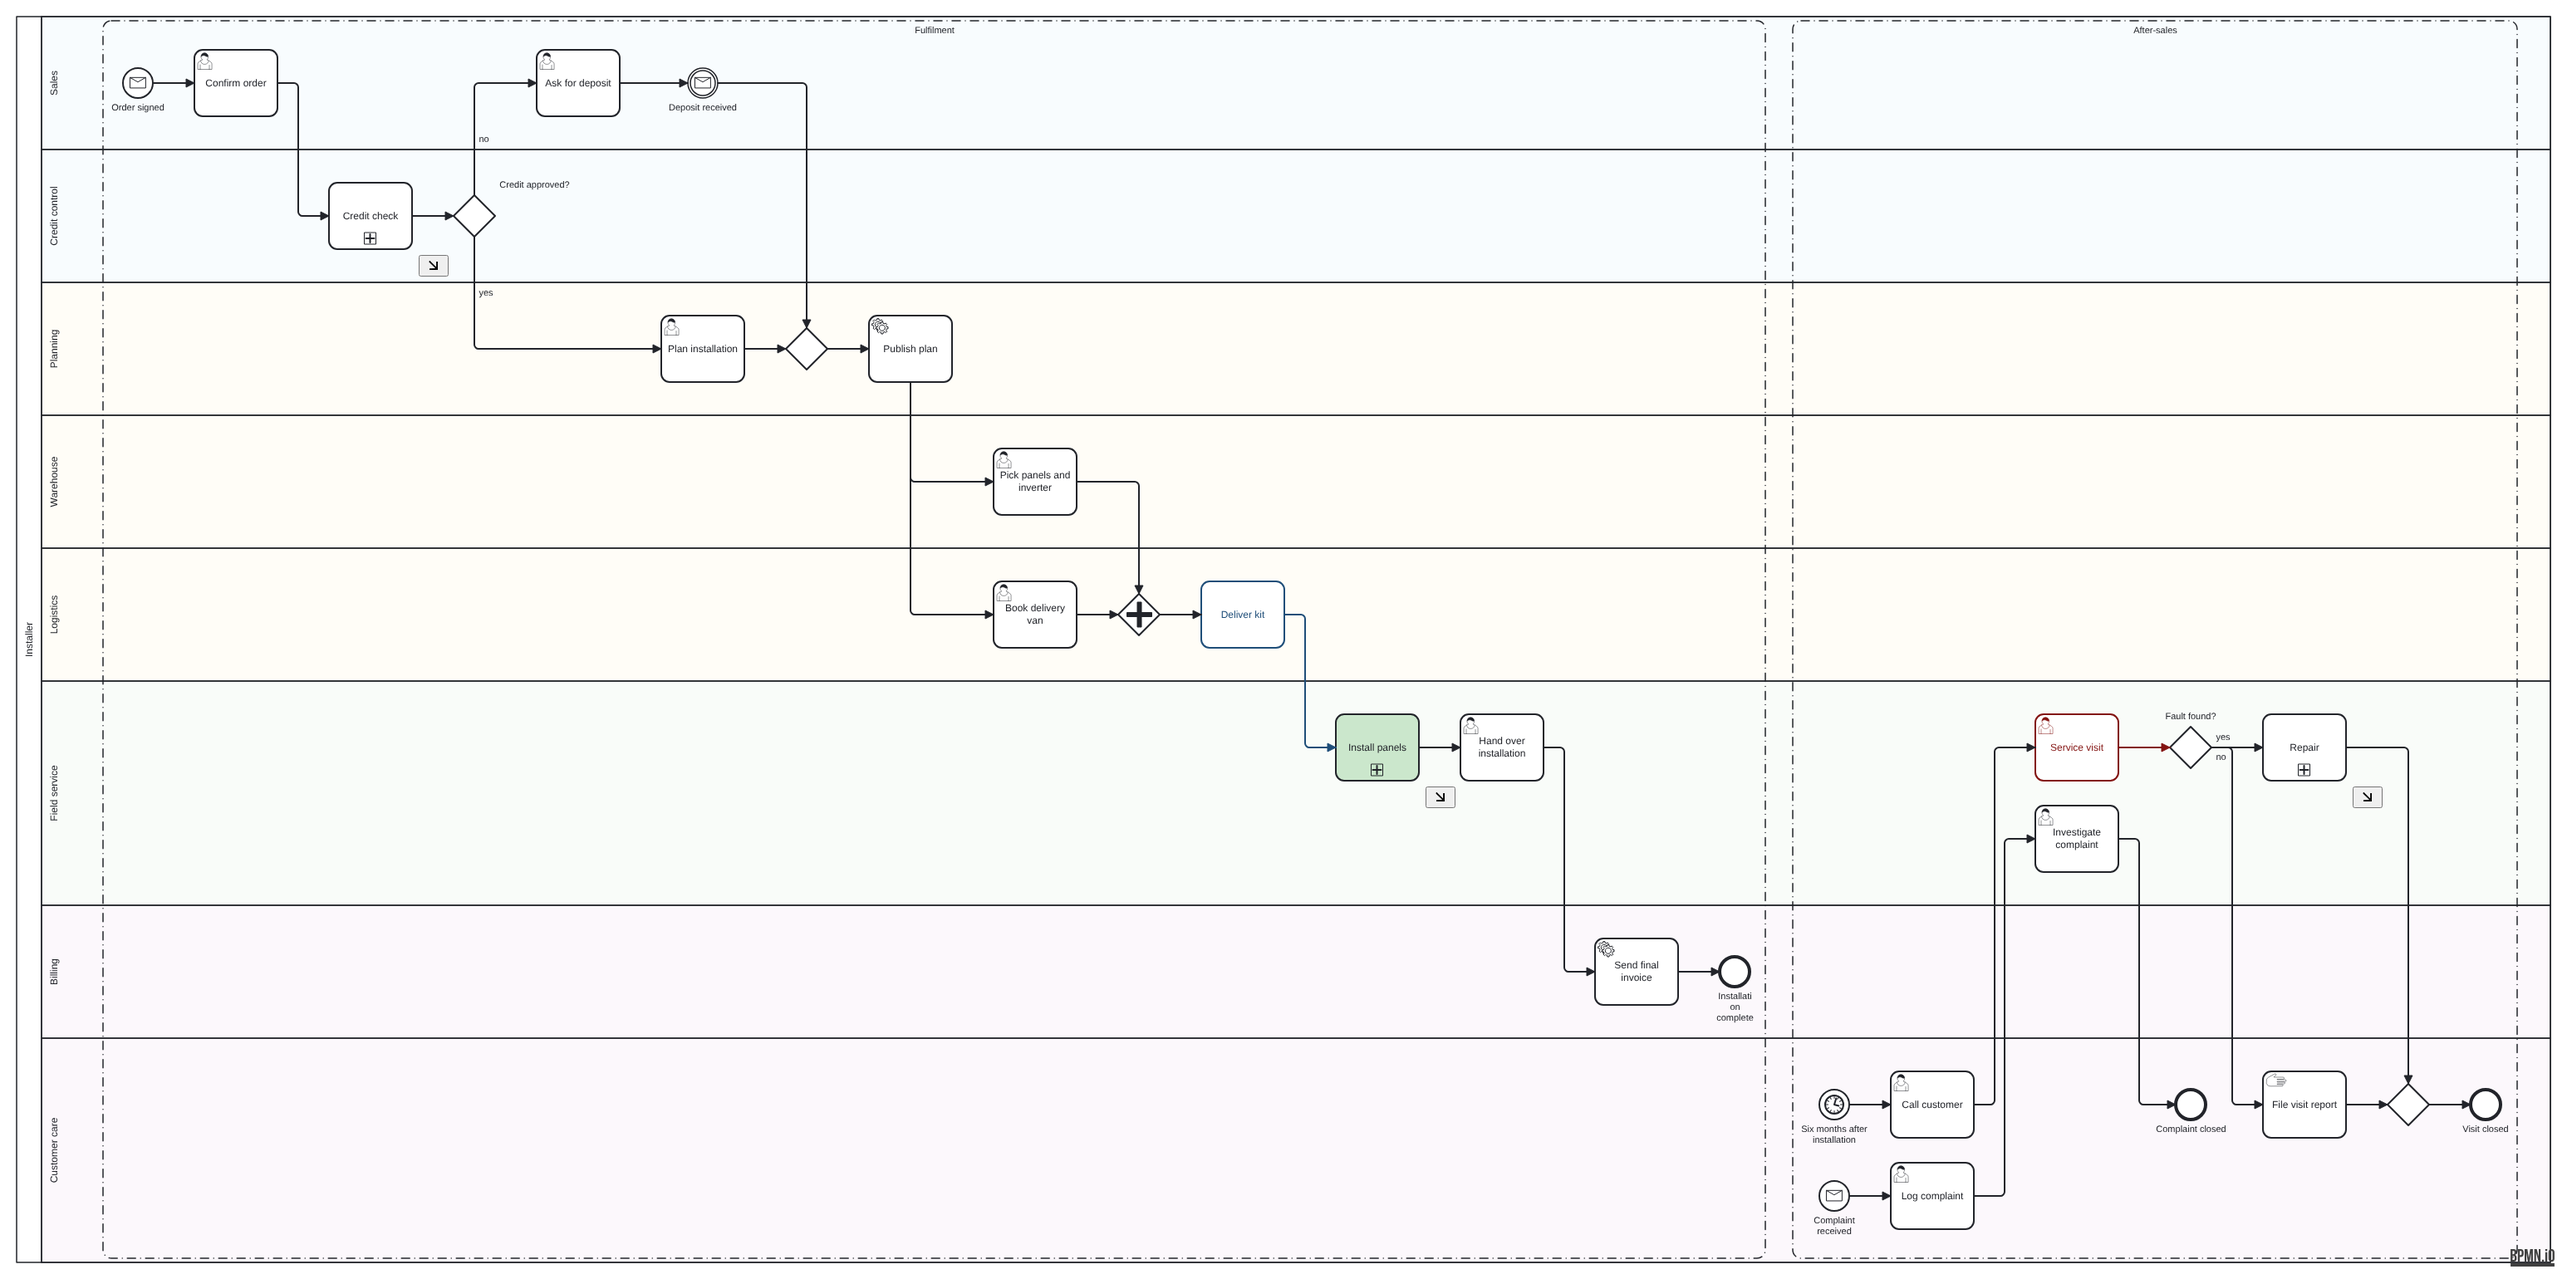
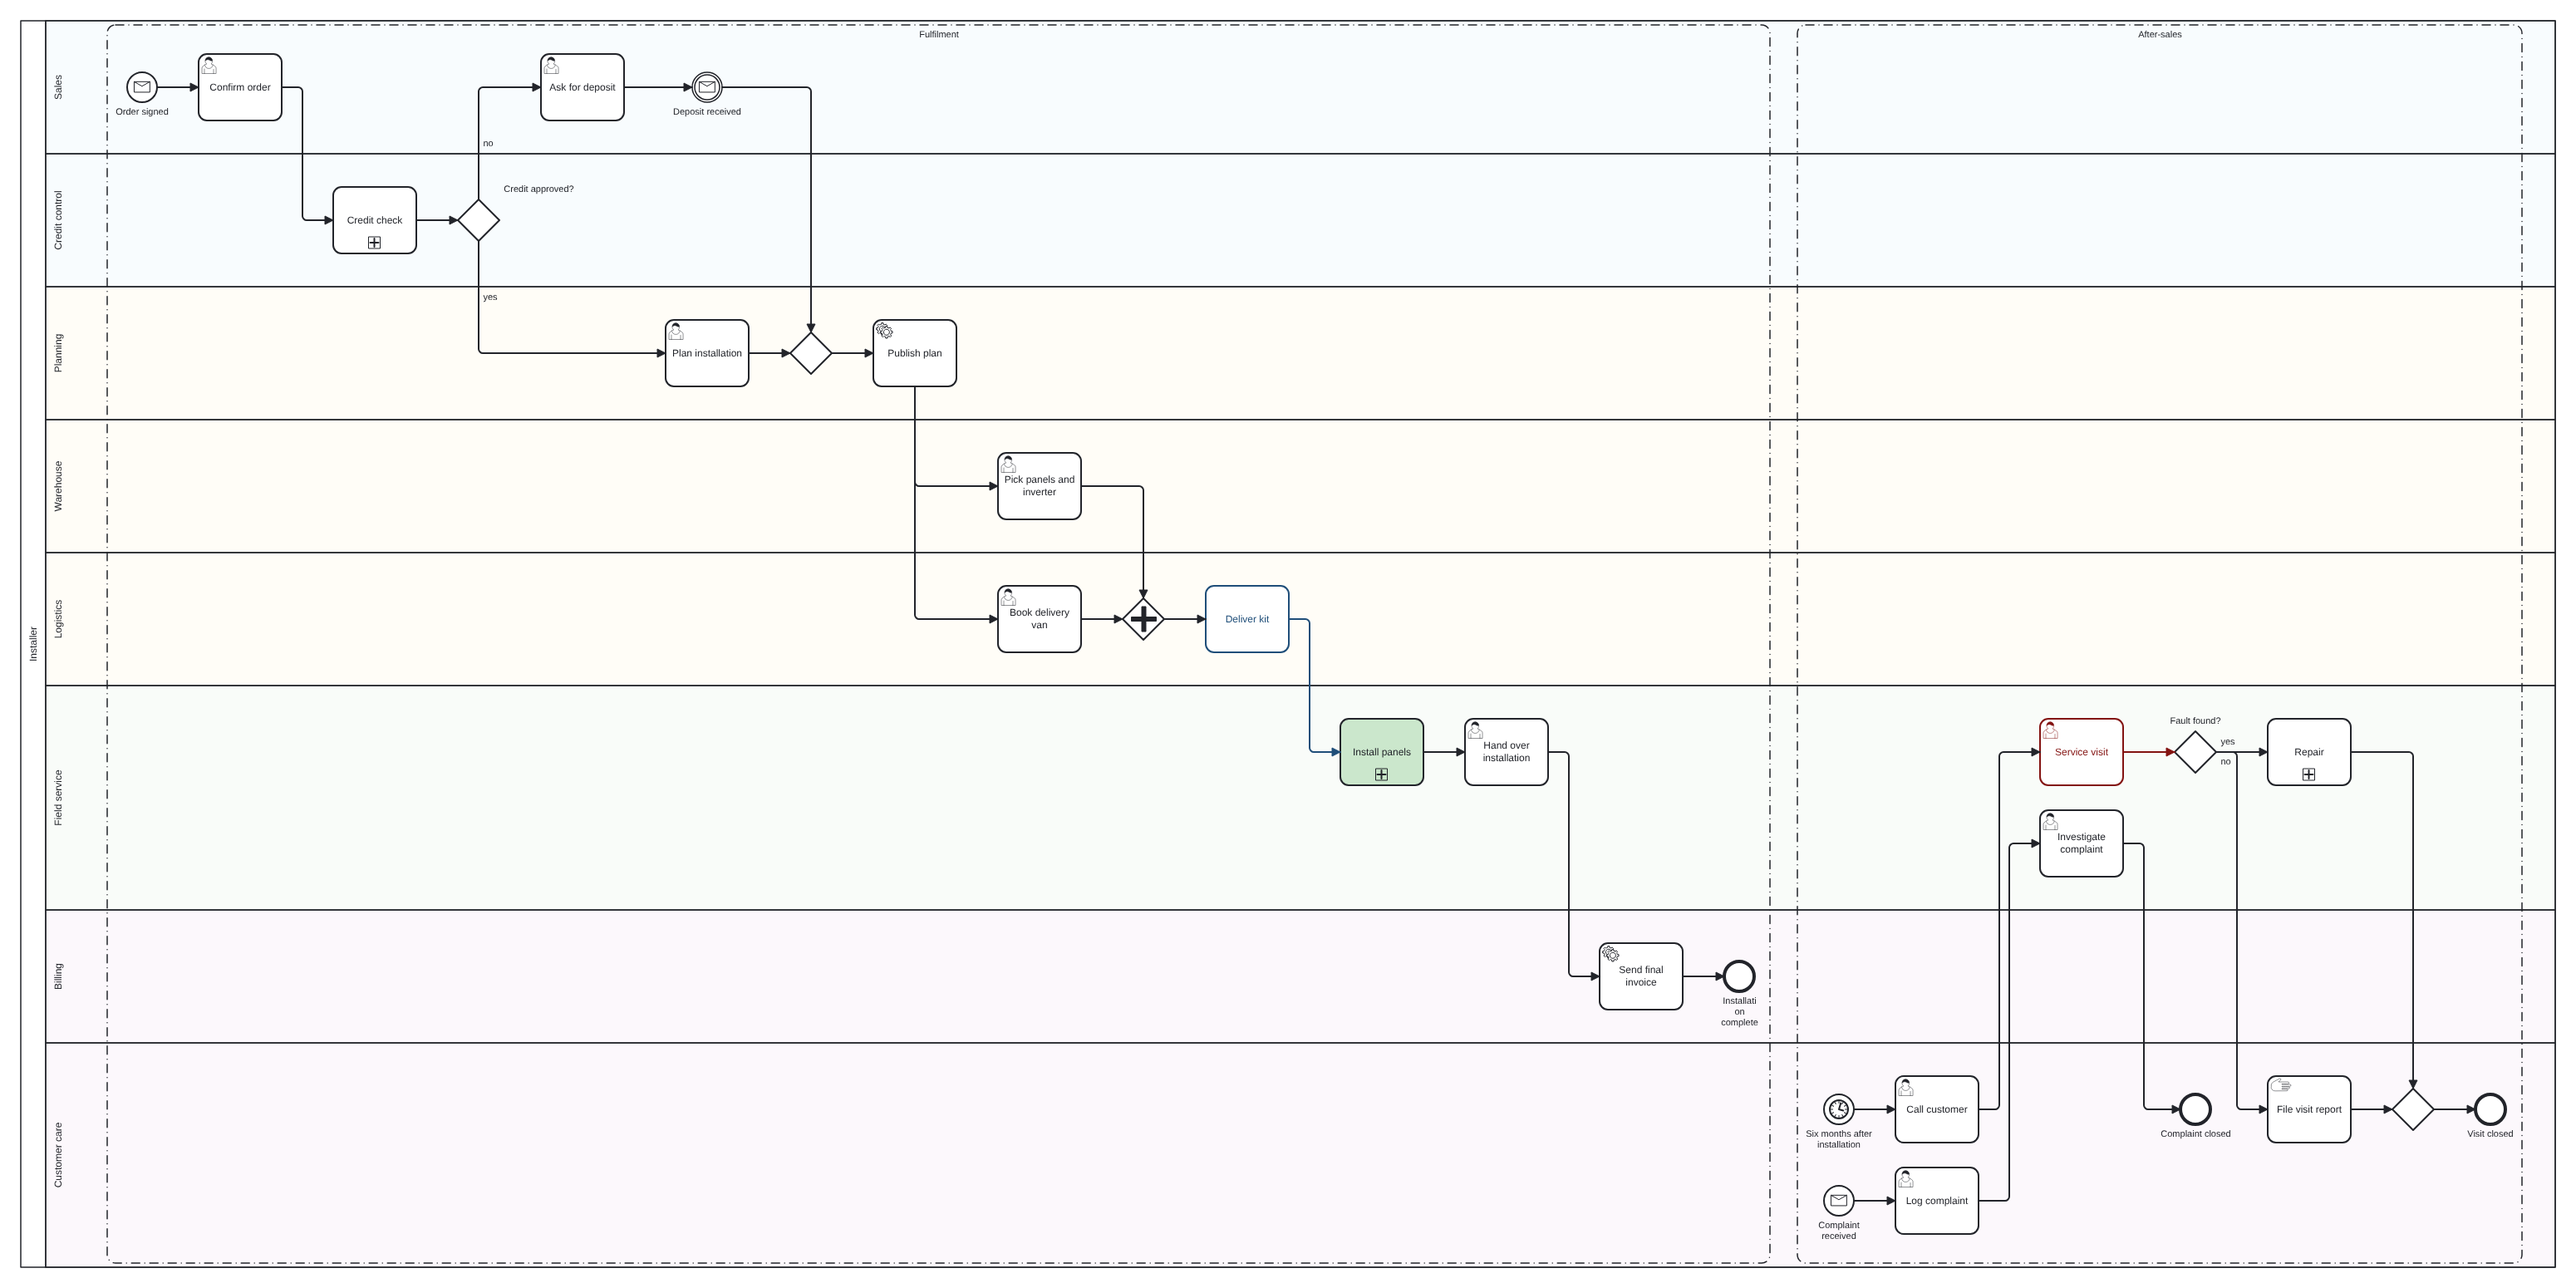
Render PNG from the exported SVG, without the viewer watermark
PNGs were screenshots of the live bpmn-js viewer, so they included the
bpmn.io watermark that the viewer shows. They are now drawn from
saveSVG(), the same export as SVG output and the web editor's
downloads, with a 20px margin. The watermark stays in the live editor,
as the bpmn-js licence requires. Regenerated docs/images.

Claude-Session: https://claude.ai/code/session_01WHtcxbajsu4HHDafSguAQi

diff --git a/packages/render/src/index.ts b/packages/render/src/index.ts
@@ -40,12 +40,6 @@ interface Page {
   viewer: {
     importXML(xml: string): Promise<{ warnings: Error[] }>;
     saveSVG(): Promise<{ svg: string }>;
-    get(name: 'canvas'): {
-      viewbox(box?: object): {
-        inner: { x: number; y: number; width: number; height: number };
-      };
-      resized(): void;
-    };
   };
   BpmnJS: new (options: { container: string }) => Page['viewer'];
 }
@@ -75,51 +69,40 @@ export async function createRenderer(): Promise<Renderer> {
         '<div id="canvas" style="width:100vw;height:100vh"></div>',
     );
     await page.addScriptTag({ path: viewer });
-    const box = await page.evaluate(async (source) => {
+    const svg = await page.evaluate(async (source) => {
       const page = globalThis as unknown as Page;
       page.viewer = new page.BpmnJS({ container: '#canvas' });
       await page.viewer.importXML(source);
-      const { x, y, width, height } = page.viewer.get('canvas').viewbox().inner;
-      return { x, y, width, height };
+      return (await page.viewer.saveSVG()).svg;
     }, xml);
-    return { page, box };
+    return { page, svg };
   }
 
   return {
     async svg(xml) {
-      const { page } = await open(xml, 1);
-      try {
-        return await page.evaluate(async () => {
-          const { svg } = await (
-            globalThis as unknown as Page
-          ).viewer.saveSVG();
-          return svg;
-        });
-      } finally {
-        await page.close();
-      }
+      const { page, svg } = await open(xml, 1);
+      await page.close();
+      return svg;
     },
 
+    // Drawn from the exported SVG, as the editors export images, rather
+    // than a screenshot of the viewer: the viewer shows the bpmn.io
+    // watermark, which belongs to the live viewer, not to exported images.
     async png(xml, { scale = 1 } = {}) {
-      const { page, box } = await open(xml, scale);
+      const { page, svg } = await open(xml, scale);
       try {
-        const width = Math.ceil(box.width + 2 * MARGIN);
-        const height = Math.ceil(box.height + 2 * MARGIN);
-        await page.setViewportSize({ width, height });
-        await page.evaluate(
-          ({ box, width, height, margin }) => {
-            const canvas = (globalThis as unknown as Page).viewer.get('canvas');
-            canvas.resized();
-            canvas.viewbox({
-              x: box.x - margin,
-              y: box.y - margin,
-              width,
-              height,
-            });
-          },
-          { box, width, height, margin: MARGIN },
+        const size = (name: string) =>
+          Number(new RegExp(`<svg[^>]* ${name}="([\\d.]+)"`).exec(svg)?.[1]);
+        await page.setViewportSize({
+          width: Math.ceil(size('width') + 2 * MARGIN),
+          height: Math.ceil(size('height') + 2 * MARGIN),
+        });
+        await page.setContent(
+          '<style>html,body{margin:0;background:#fff}' +
+            `#image{display:inline-block;padding:${MARGIN}px;line-height:0}</style>` +
+            `<div id="image">${svg.replace(/^<\?xml[^>]*>/, '')}</div>`,
         );
-        return await page.screenshot({ type: 'png' });
+        return await page.locator('#image').screenshot({ type: 'png' });
       } finally {
         await page.close();
       }

diff --git a/packages/render/test/render.test.ts b/packages/render/test/render.test.ts
@@ -32,4 +32,18 @@ describe('renderer', () => {
     const [w2, h2] = size(two);
     expect([w2, h2]).toEqual([w1! * 2, h1! * 2]);
   });
+
+  it('draws PNG from the exported SVG, without the viewer watermark', async () => {
+    const r = await renderer;
+    const svg = await r.svg(xml);
+    const attr = (name: string) =>
+      Number(new RegExp(`<svg[^>]* ${name}="([\\d.]+)"`).exec(svg)![1]);
+    // The exported SVG has no bpmn.io watermark; the PNG is that SVG plus
+    // a 20px margin.
+    expect(svg).not.toContain('bjs-powered-by');
+    expect(size(await r.png(xml))).toEqual([
+      Math.ceil(attr('width') + 40),
+      Math.ceil(attr('height') + 40),
+    ]);
+  });
 });
